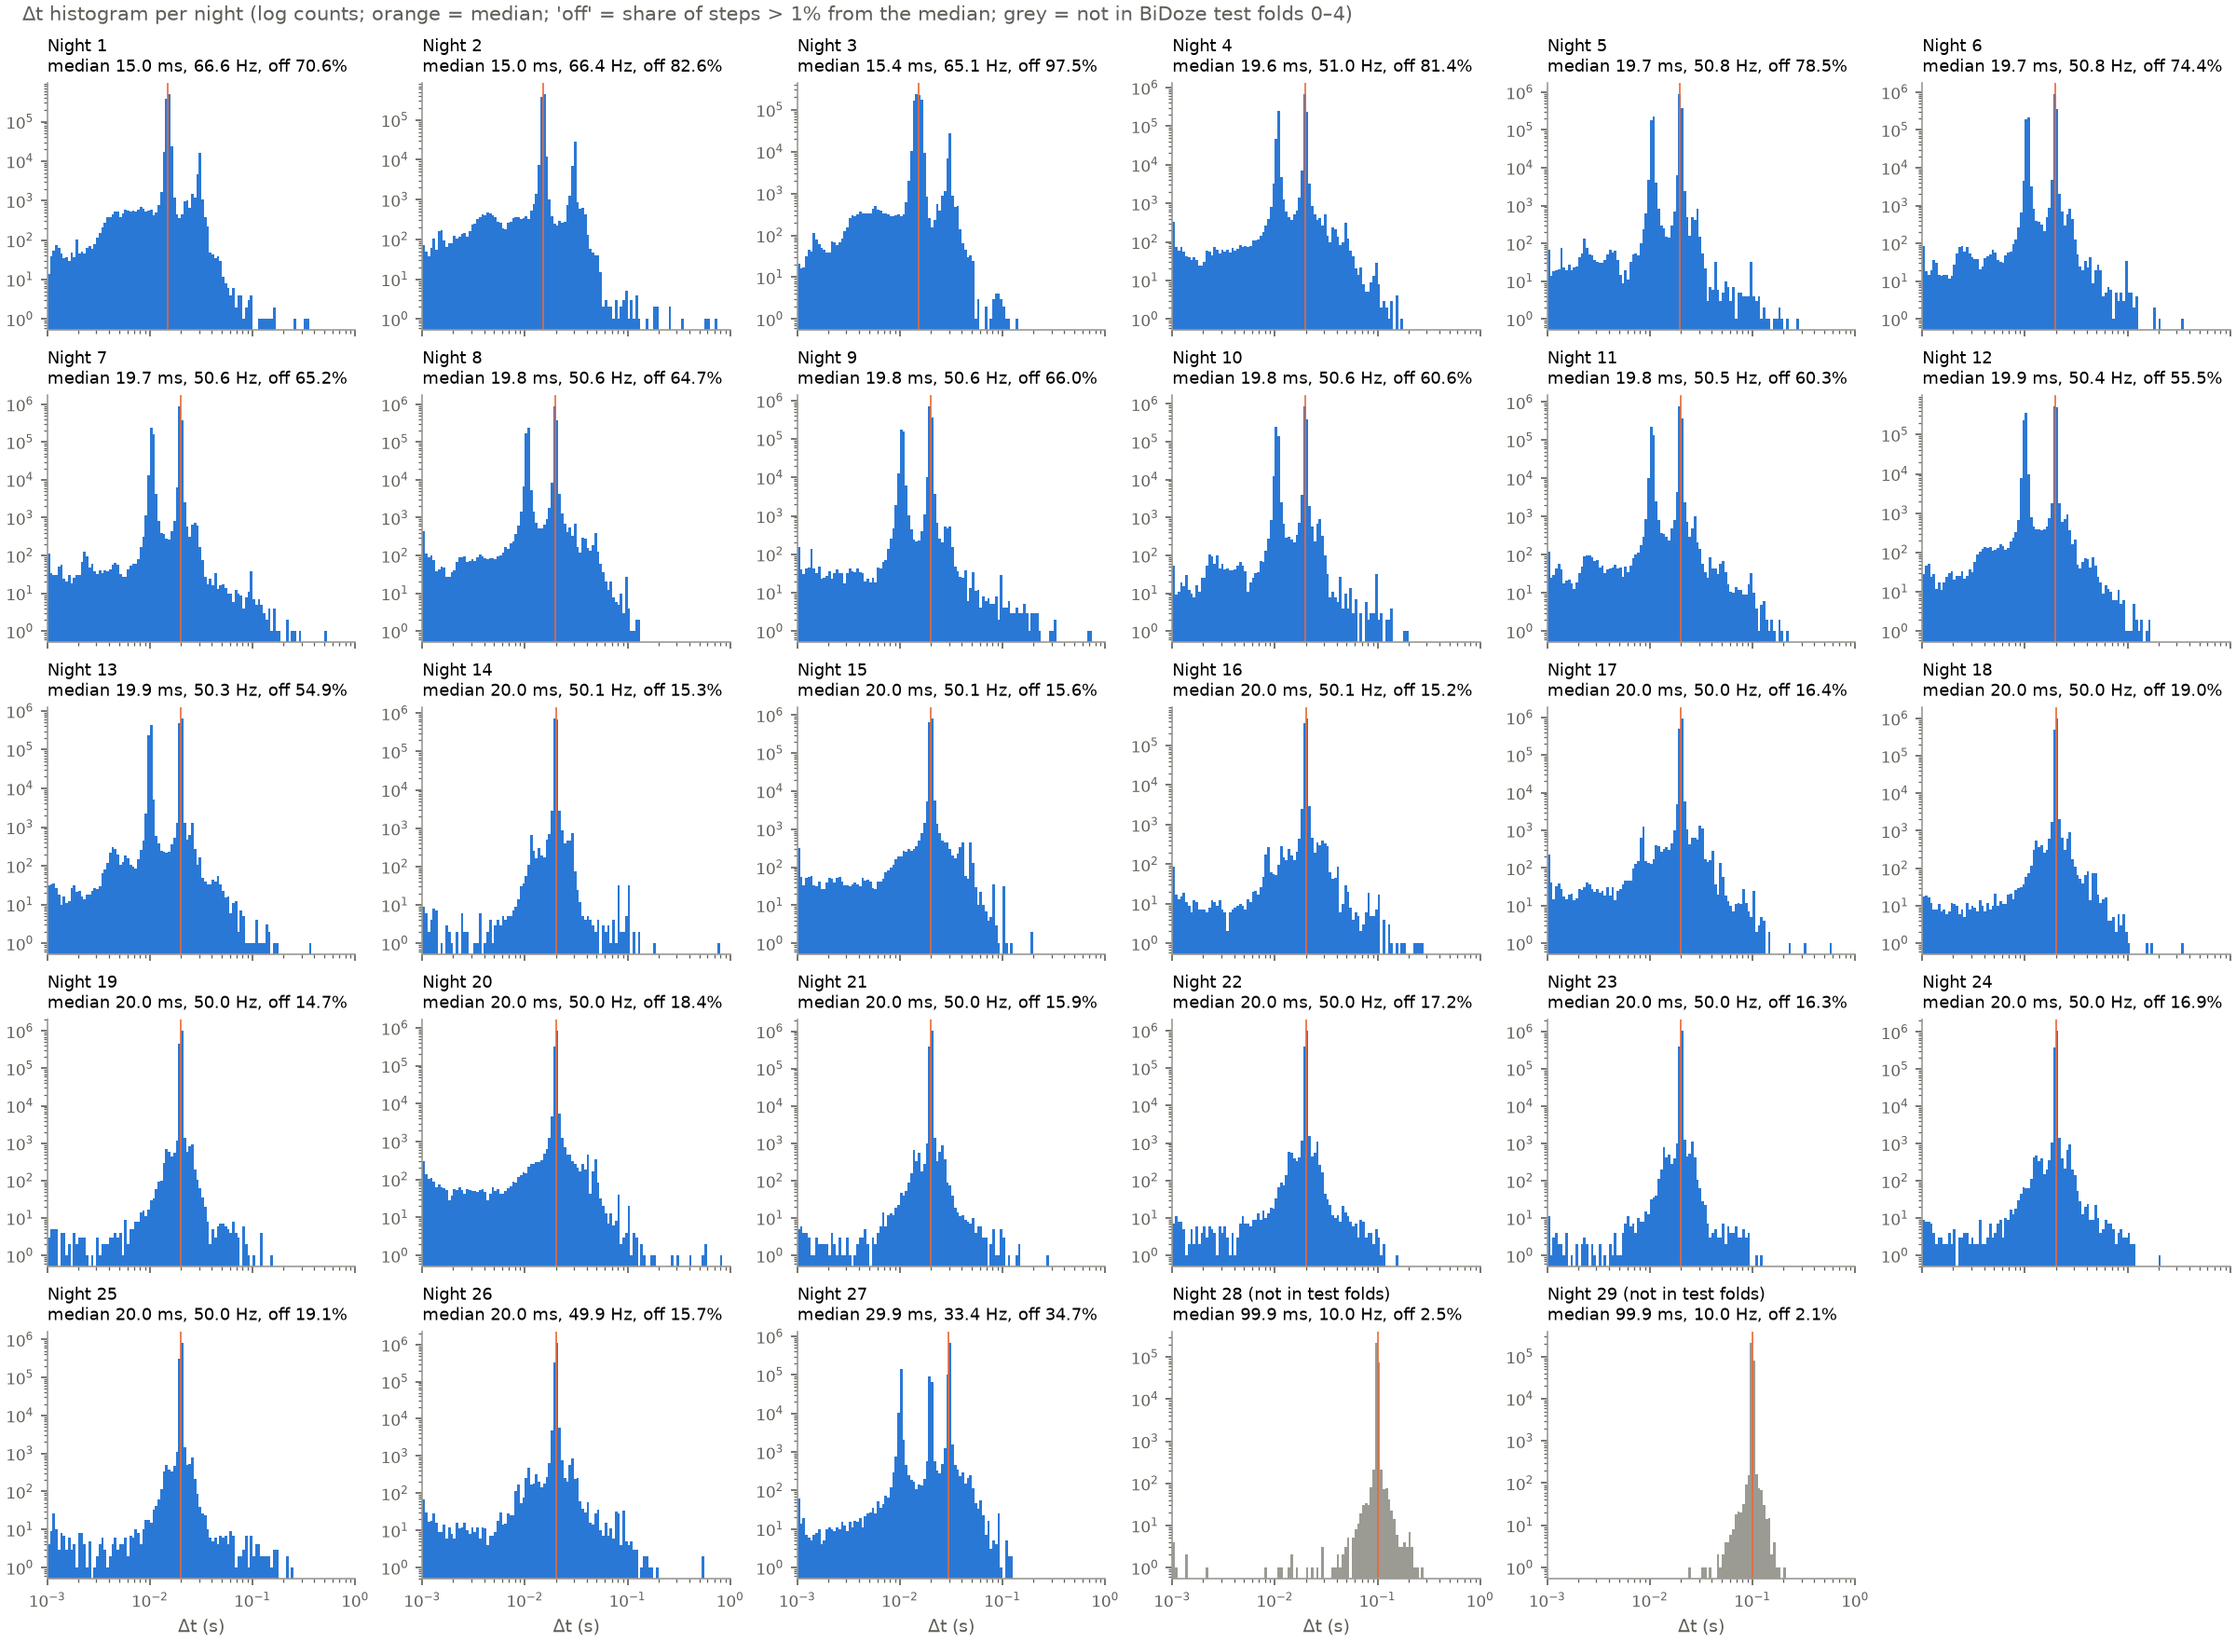
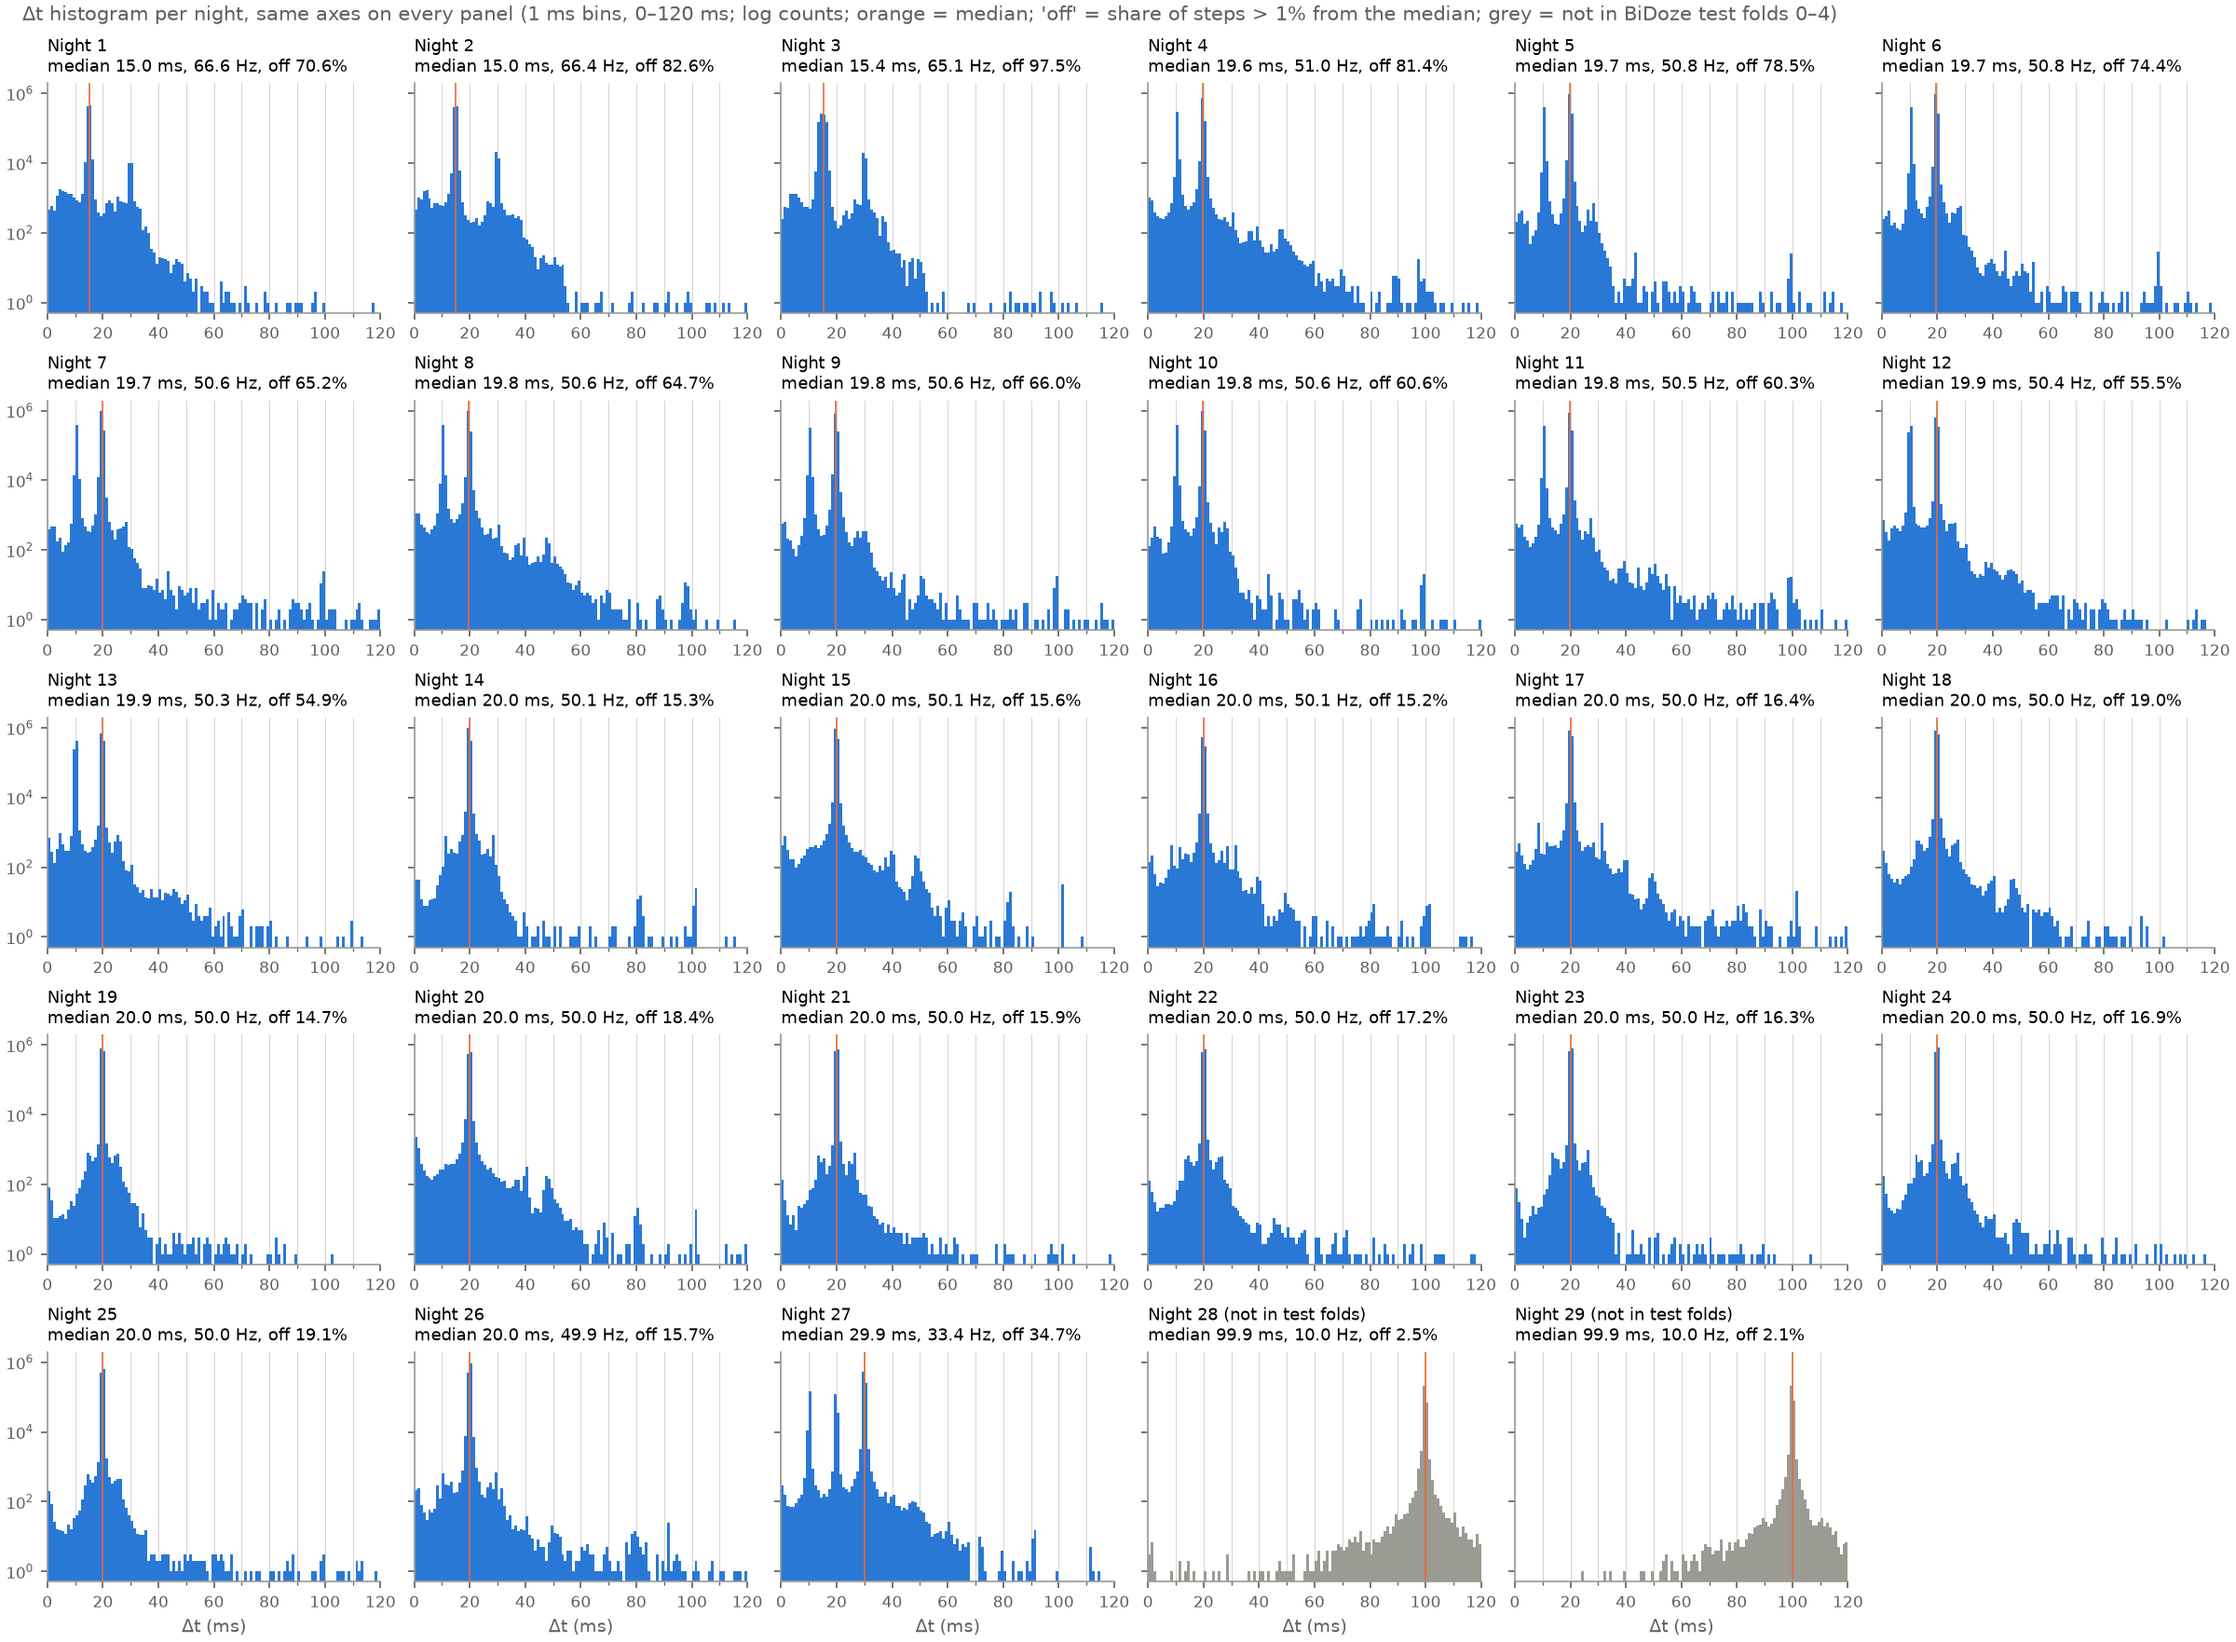
Plot per-night Δt histograms on one shared linear 0–120 ms axis.

Changed region(s): [[0.0, 0.0, 1.0, 0.9989], [0.1562, 0.6243, 0.1875, 0.6555]]

diff --git a/watchtree/results/sleepaccel-timestamps-2026-10-29/setup/figures.py b/watchtree/results/sleepaccel-timestamps-2026-10-29/setup/figures.py
@@ -45,18 +45,20 @@ ax.set_title(f"Pooled Δt, {n} SleepAccel nights, {allp.size:,} steps with Δt >
 ax.set_xlim(1e-3, 10); fig.savefig(FIG / "1_pooled_dt_hist.png", dpi=150); plt.close(fig)
 
 # 2 per night
-b2 = np.logspace(-3, 0, 121)
+XMAX = 0.12; b2 = np.arange(0, XMAX + 5e-4, 1e-3)  # linear 1 ms bins on one shared 0–120 ms axis
 cols = 6; rows = int(np.ceil(n / cols))
-fig, axs = plt.subplots(rows, cols, figsize=(16, 2.35 * rows), sharex=True, layout="constrained")
+fig, axs = plt.subplots(rows, cols, figsize=(16, 2.35 * rows), sharex=True, sharey=True, layout="constrained")
 for ax in axs.ravel(): ax.set_visible(False)
 for i, ax in zip(range(1, n + 1), axs.ravel()):
     ax.set_visible(True); d = D[i]; m = np.median(d); s = S.iloc[i - 1]
-    ax.hist(d[(d > 0) & (d <= 1)], bins=b2, color=BLUE if FOLD[i] else MUTED, lw=0); ax.set_xscale("log"); ax.set_yscale("log"); ax.set_xlim(1e-3, 1)
-    ax.axvline(m, color=ORANGE, lw=0.8)
+    ax.hist(d[(d > 0) & (d <= XMAX)] * 1e3, bins=b2 * 1e3, color=BLUE if FOLD[i] else MUTED, lw=0); ax.set_yscale("log"); ax.set_xlim(0, XMAX * 1e3)
+    ax.set_xticks(range(0, 121, 20)); ax.set_xticks(range(0, 121, 10), minor=True); ax.grid(True, axis="x", which="both", color=MUTED, lw=0.4, alpha=0.5); ax.set_axisbelow(True)
+    ax.axvline(m * 1e3, color=ORANGE, lw=0.8)
     ax.set_title(f"Night {i}{'' if FOLD[i] else ' (not in test folds)'}\nmedian {m*1e3:.1f} ms, {1/m:.1f} Hz, off {s.share_off_median_gt1pct:.1%}", fontsize=8.5, loc="left")
     ax.tick_params(labelsize=8)
-for ax in axs[-1]: ax.set_xlabel("Δt (s)", fontsize=9)
-fig.suptitle("Δt histogram per night (log counts; orange = median; 'off' = share of steps > 1% from the median; grey = not in BiDoze test folds 0–4)", x=0.01, ha="left", fontsize=10, color=INK2)
+for ax in axs.ravel(): ax.tick_params(labelbottom=True)
+for ax in axs[-1]: ax.set_xlabel("Δt (ms)", fontsize=9)
+fig.suptitle("Δt histogram per night, same axes on every panel (1 ms bins, 0–120 ms; log counts; orange = median; 'off' = share of steps > 1% from the median; grey = not in BiDoze test folds 0–4)", x=0.01, ha="left", fontsize=10, color=INK2)
 fig.savefig(FIG / "2_dt_hist_per_night.png", dpi=150); plt.close(fig)
 
 # 3 nominal vs effective
